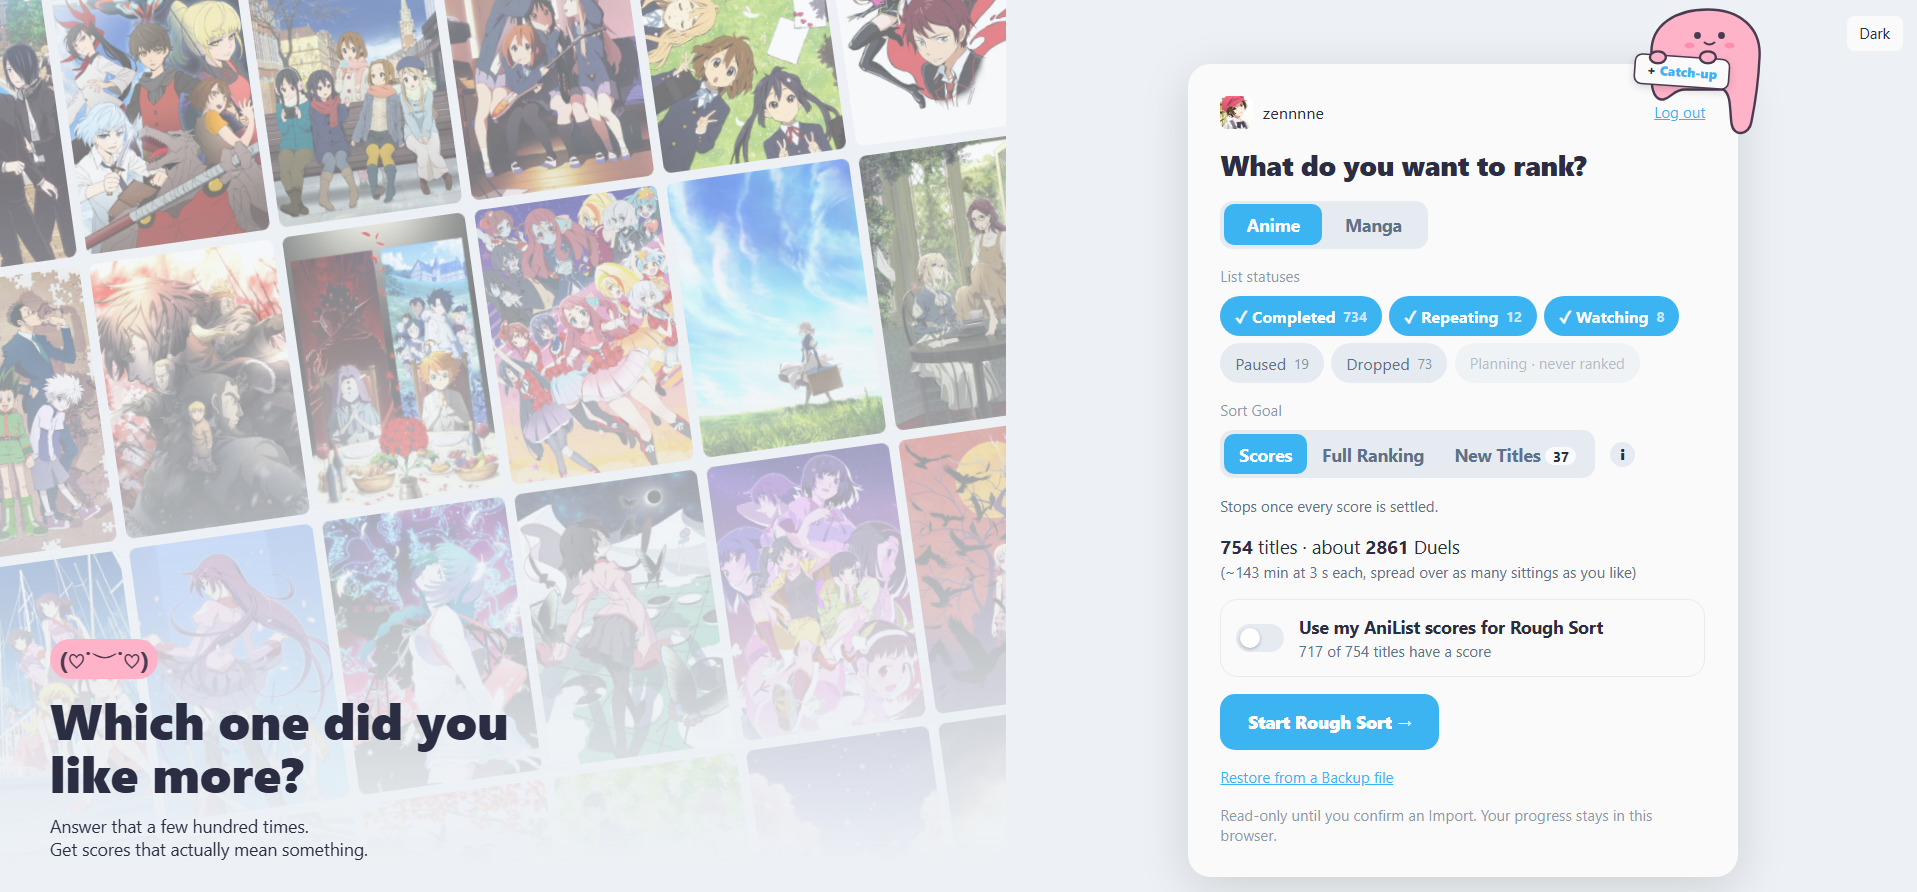
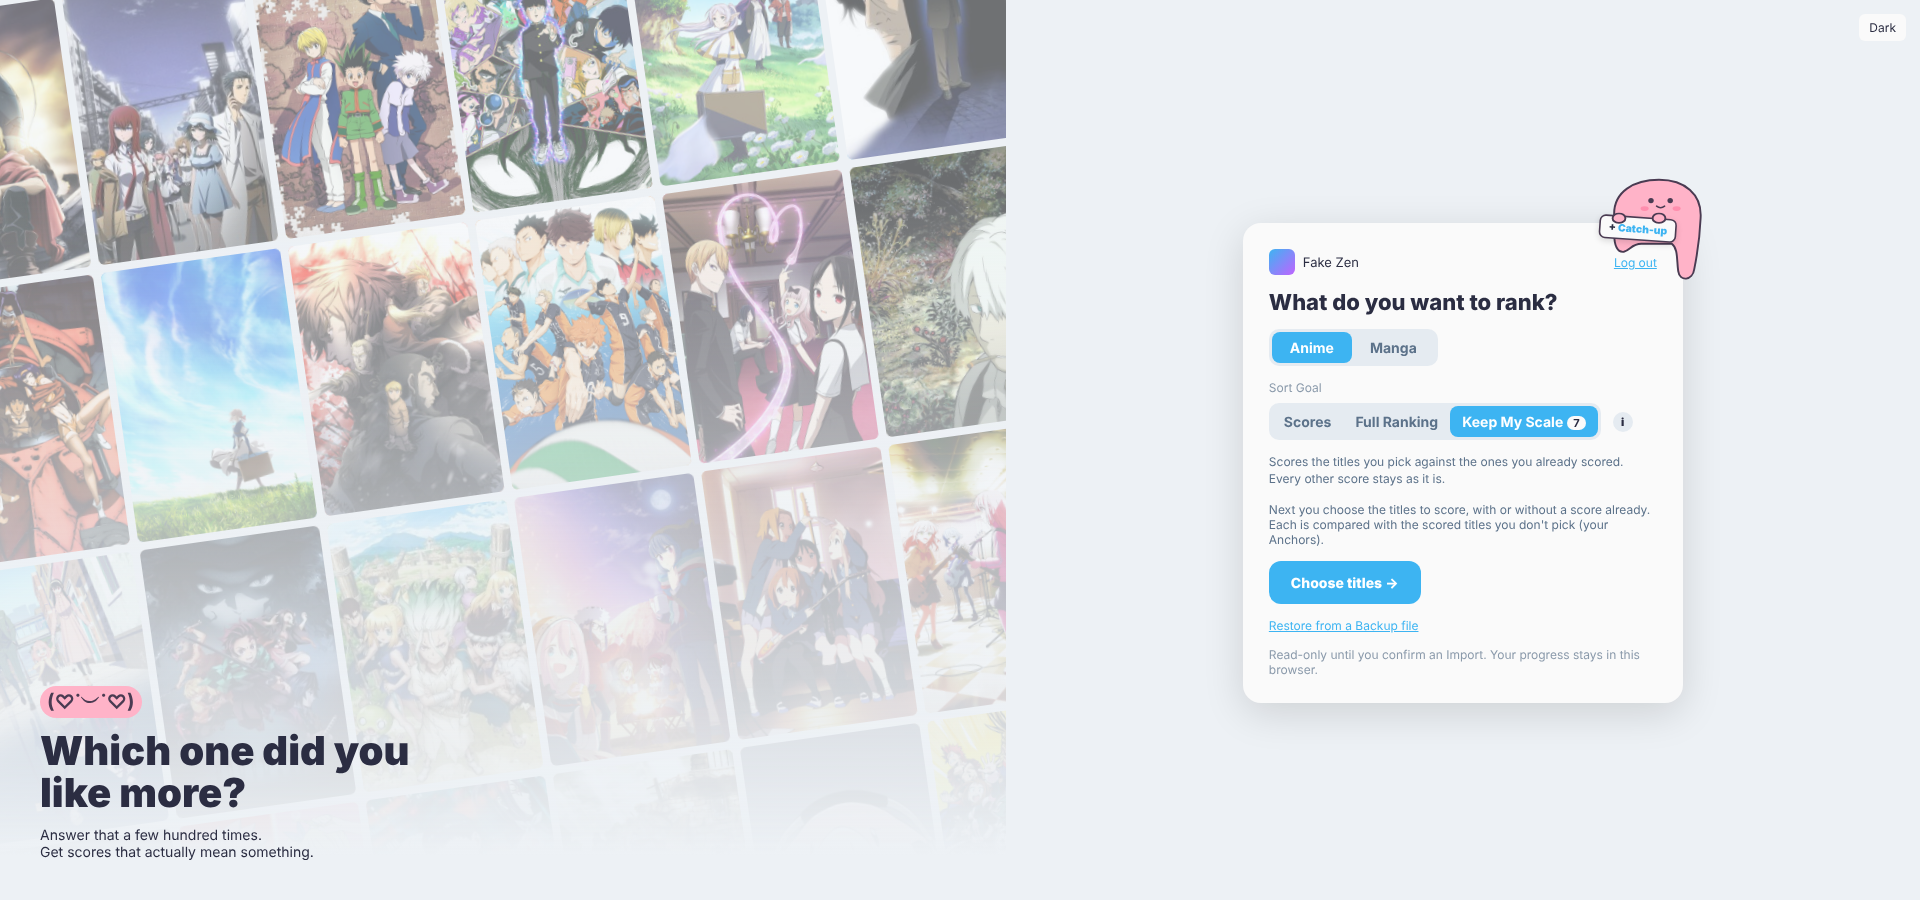
README: the Picker, and screenshots with captions (#67)
README now shows Start with Keep My Scale selected, the Picker and a
Keep My Scale Duel, beside the Duel, Preview and Catch-up screenshots
already in docs/screenshots, each with a caption. The Keep My Scale
section describes picking the titles in the Picker. score-new-titles.png
is replaced by keep-my-scale.png; the new screenshots come from the dev
fake AniList with real covers.

Claude-Session: https://claude.ai/code/session_015aMECrvy6EMVCNksbggkQN

diff --git a/README.md b/README.md
@@ -12,11 +12,14 @@ You pick a **Sort Goal** when a Ranking starts.
 | --- | --- | --- |
 | **Scores** | you just want new scores on AniList | every title's score is settled |
 | **Full Ranking** | you also want an exact order of your titles | every title has its own place |
-| [**Keep My Scale**](#keep-my-scale) | you like the scores you have and only want to score the titles that have none | every unscored title has a score |
+| [**Keep My Scale**](#keep-my-scale) | you like the scores you have and only want to score the titles you pick | every picked title has a score |
 
 Scores and Full Ranking rebuild every score from scratch and share the steps below. The default is Full Ranking for a Pool under 100 titles and Scores from 100 up, and you can switch between the two at any time without losing answers. Keep My Scale works differently and is described in [its own section](#keep-my-scale).
 
 Titles missing from your list? [**Catch-up**](#catch-up) (anime only) suggests anime you have probably watched, so you can add them before you rank.
+
+![Start: Anime chosen, with Keep My Scale selected as the Sort Goal](docs/screenshots/start.png)
+*Start: pick a Media Type and a Sort Goal. With Keep My Scale selected, the next step is choosing the titles.*
 
 ## How it works
 
@@ -31,6 +34,12 @@ Titles missing from your list? [**Catch-up**](#catch-up) (anime only) suggests a
    - the **Distribution**: Linear or Bell
    - the **Score Step**: fine, or human steps like every 0.5 / every 5
 6. **Import** — write the chosen scores back to your AniList list (throttled, resumable, retries on rate limits).
+
+![A Duel between two titles of the Loved Band](docs/screenshots/duel.png)
+*A Duel: pick the better title, or call them the same. The sidebar shows each Band's progress and the Ranking so far.*
+
+![Preview: new scores grouped by score level, each cover showing its old score](docs/screenshots/preview.png)
+*Preview: every title under its new score, with the old score on its cover, before anything is written.*
 
 Progress is saved in your browser. Use **Backup** / **Restore** to move a Ranking to another browser. The Pool syncs with AniList when you come back, so added or removed titles are picked up.
 
@@ -55,11 +64,22 @@ Switching keeps every answer. Switching to Full Ranking first shows about how ma
 
 ### Keep My Scale
 
-For when you already have a scoring scale and don't want it changed. Titles that already have an AniList score are **Anchors**: fixed reference points whose scores are never touched. Each title without a score is put through Duels against Anchors only, and gets the score of the Anchors it sits among.
+For when you already have a scoring scale and don't want it changed. You pick the titles to score in the **Picker**: titles without a score, and titles whose score you no longer trust. Every other title with an AniList score is an **Anchor**: a fixed reference point whose score is never touched. Each picked title is put through Duels against Anchors only, and gets the score of the Anchors it sits among; its old score plays no part.
+
+**The Picker**
+
+- Lists every title on your list except Planning ones, as a wall of covers with each title's score, release year and list status.
+- Search, filter by list status, release year, genres and tags, and sort. Titles you picked stay picked when a filter hides them.
+- **Add N without a score** picks every unscored title the filters show; **Pick all N shown** picks everything shown, search included.
+- The dock at the bottom shows how many titles you picked, how many Anchors and scores they leave, and about how many Duels they take. It won't start with fewer than 20 Anchors on 3 scores.
+- Titles left unsettled when a Keep My Scale Ranking ends are offered again the next time you open the Picker.
+
+![The Picker: a wall of covers with eight titles picked, filters on the left and the summary in a dock at the bottom](docs/screenshots/picker.png)
+*The Picker: picked titles are ringed in blue; a picked title that already has a score reads `9 → ?`, since its score will be replaced.*
 
 **When you can use it**
 
-- Offered on Start when your list has at least 20 Anchors on at least 3 different scores.
+- Offered on Start when your list has at least 20 titles with a score, on at least 3 different scores.
 - It can only be chosen when a Ranking starts, and can't be switched with the other two Sort Goals.
 
 **How it differs from the steps above**
@@ -69,7 +89,10 @@ For when you already have a scoring scale and don't want it changed. Titles that
 - A title that beats every Anchor of one score and loses to every Anchor of the next gets a one-off **Closer-to prompt**: which of the two scores is it closer to.
 - An Anchor whose Duel results contradict its own score twice becomes a **Suspect Anchor**. It stops being used as a reference and is listed on Preview.
 - Preview opens as soon as one title is settled, so you can import some scores without finishing the rest.
-- The Ranking ends with its Import. Titles still without a score start fresh next time, against Anchors that now include the ones just imported.
+- The Ranking ends with its Import. Picked titles not yet settled can be picked again next time and start fresh, against Anchors that now include the ones just imported.
+
+![A Keep My Scale Duel: a picked title against an Anchor, with the Anchors by score in the sidebar](docs/screenshots/keep-my-scale.png)
+*Keep My Scale: each Duel puts a picked title against an Anchor. The sidebar shows the Anchors by score and where the title can still land.*
 
 ### Catch-up
 
@@ -88,7 +111,10 @@ How it works:
 - **What you do:** mark each one Completed, Dropped, Planning or Paused, then save to get the next batch. Saves are written to AniList in the background.
 - **Titles you leave unmarked** are **Passed** and aren't suggested again for 30 days.
 - **With a near-empty list**, Catch-up first asks roughly when you started watching anime.
-- **When you are done**, it offers to go on to Keep My Scale if you qualify, or to your default Sort Goal if not.
+- **When you are done**, it offers to go on to Keep My Scale if you qualify, with every unscored Completed and Repeating title already picked in the Picker, or to your default Sort Goal if not.
+
+![Catch-up: a batch of 20 suggested anime, some marked Completed, Dropped, Planning or Paused](docs/screenshots/catch-up.png)
+*Catch-up: tap a cover to mark it; unmarked titles are Passed for 30 days.*
 
 So if you already have a scoring scale of your own, the two make a full loop: Catch-up adds the titles you have watched, then Keep My Scale gives them scores without changing the ones you already have.
 
